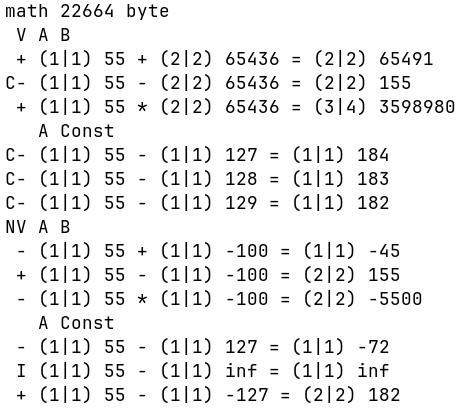
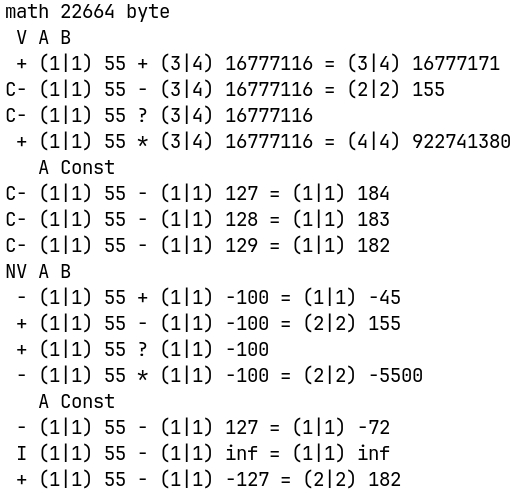
v17.2

Changed region(s): [[0.0, 0.0, 0.9957, 0.9927]]

diff --git a/main.c b/main.c
@@ -20,14 +20,14 @@ void Num(anu s, an a) { anu ns, t[m]; if (s > 8) { printf(" %d|? ", s + 1); retu
     else if (ns) printf("%u ", *(uint16_t*)a); else printf("%u ", *(uint8_t*)a); } }
 void Show(char s) { Flong(la,lb); Mat.C = 0;
   if (s == '+') FAdd(Mat.R, Mat.A); else if (s == '-') FSub(Mat.R, Mat.A); else if (s == '*') FMul(Mat.R, Mat.A);
-  else if (s == '/') FDiv(Mat.R, Mat.A, Mat.E); else FSubc(Mat.R, Mat.A, 127);
+  else if (s == '/') FDiv(Mat.R, Mat.A, Mat.E); else if (s == '?') FCmp(Mat.A); else FSubc(Mat.R, Mat.A, 127);
   printf("%c%c ", Mat.C ? 'C':' ', Mat.F ? (Mat.N ? 'I':'Z') : (Mat.N ? '-':'+')); Num(la, Mat.A);
-  if (s == 'c') printf("- "); else { printf("%c ", s); } Num(Mat.lb, Mat.b); printf("= "); Num(Mat.l, Mat.R);
-  if (s == '/') { printf("  %c ", Mat.Fe ? (Mat.Ne ? 'I':'Z') : (Mat.Ne ? '-':'+')); Num(Mat.le, Mat.E); } printf("\n"); }
+  if (s == 'c') printf("- "); else { printf("%c ", s); } Num(Mat.lb, Mat.b); if (s != '?') { printf("= "); Num(Mat.l, Mat.R);
+  if (s == '/') { printf("  %c ", Mat.Fe ? (Mat.Ne ? 'I':'Z') : (Mat.Ne ? '-':'+')); Num(Mat.le, Mat.E); } } printf("\n"); }
 void Const(void) { an sb; anu l, i = 2; printf("   A Const\n"); Show('c'); sb = Mat.B;
   Mat.B = Mat.b; l = lb; lb = Mat.lb; while(i--) { if (!++(*Mat.B) && lb) { (*(Mat.B + 1))++; } Show('-'); } Mat.B = sb; lb = l; }
-void Test(void) { printf("%c%c A B\n", Mat.Nim ? 'N':' ', Mat.V ? 'V':' '); Show('+'); Show('-'); Show('*'); /*Show('/');*/Const(); }
+void Test(void) { printf("%c%c A B\n", Mat.Nim ? 'N':' ', Mat.V ? 'V':' '); Show('+'); Show('-'); Show('?'); Show('*'); Const(); }
 
 int main(void) { anu v = 1,a[m],b[m],e[m],r[m+m]; Faddr((As)r, (As)e, (As)a, (As)b);
-  Fini(0,v); la = Fbvi(Mat.A, 0,55); lb = Fvi(Mat.B, -100,255); Test();
+  Fini(0,v); la = Fbvi(Mat.A, 0,55); lb = Fvi(Mat.B, -100,255,255); Test();
   Fset(1,v); la = Fmov(la, Mat.A); lb = Fmov(lb, Mat.B); Test(); return 0; }

diff --git a/math.h b/math.h
@@ -57,9 +57,9 @@ extern Math Mat;
 #define Fswap(l, x) FSWAP(l, x, x)
 #define Fmov(l, x) FMOV(l, x, x)
 #define Fcold(f, l, x) FCOLD(f, l, x, x)
-#define Fvar(f, r,...) FVI(f, r, Anu(__VA_ARGS__))
-#define Fvi(r,...) FVI(0, r, Anu(__VA_ARGS__))
-#define Fbvi(r,...) FVI(1, r, Anu(__VA_ARGS__))
+#define Fvar(f, r, ...) FVI(f, r, Anu(__VA_ARGS__))
+#define Fvi(r, ...) FVI(0, r, Anu(__VA_ARGS__))
+#define Fbvi(r, ...) FVI(1, r, Anu(__VA_ARGS__))
 #define FAdd(r, a) FADD(r, a, Mat.lb, Mat.B)
 #define FAddc(r, a, ...) FADDc(r, a, Anu(__VA_ARGS__))
 #define Fadd(r) FADD(r, r, Mat.lb, Mat.B)

diff --git a/README.md b/README.md
@@ -17,7 +17,7 @@
 P.s.: Блокировку убрали как только добавил сообщение о ней на главную страницу, длилась минут 20 как я заметил и принял меры чтоб сообщить об этом Вам. Это сообщение останется (20.09.2026 ~16.00 по местному +7) как память, так, что буду стараться вопреки не востребованности в России по данной области дабы остальной народ мог этим воспользоваться. Проанализируйте события с момента как я вернулся в эту сферу (конец января 2026 выложен Products готовый полностью затем занялся Fresh в начале февраля 2026), всё это время обновлялся код и было забавно видеть на open.net новости - даже компании серьёзные их как озарило - так, что у меня нет желания и времени следить за соблюдением GPLv3 из России, если заметите нарушение лицензии, то гарантировано взаимовыгодное сотрудничество.
 
 <div align="center">
-  <h1>Результат запуска v17.1</h1>
+  <h1>Результат запуска v17.2</h1>
   
   <picture>
     <source media="(prefers-color-scheme: dark)" srcset="Plus/psb.jpeg">
